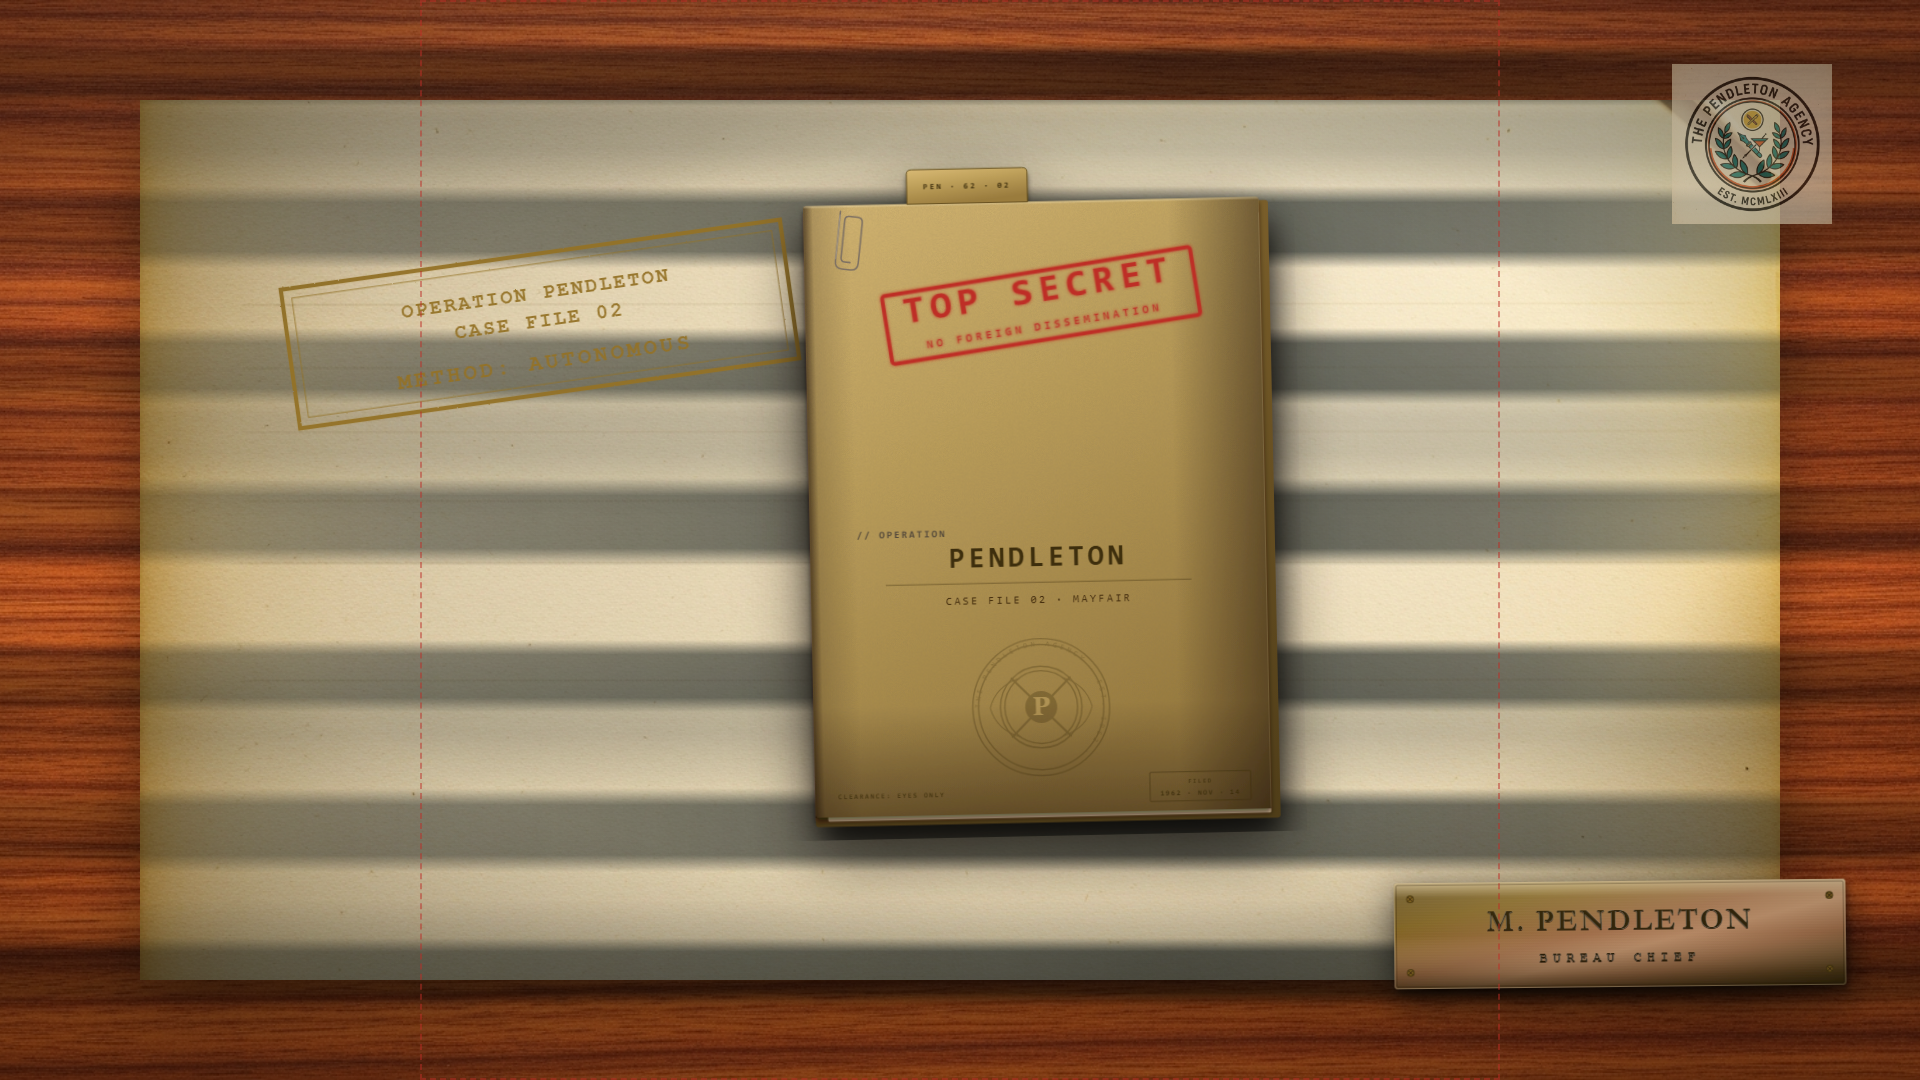
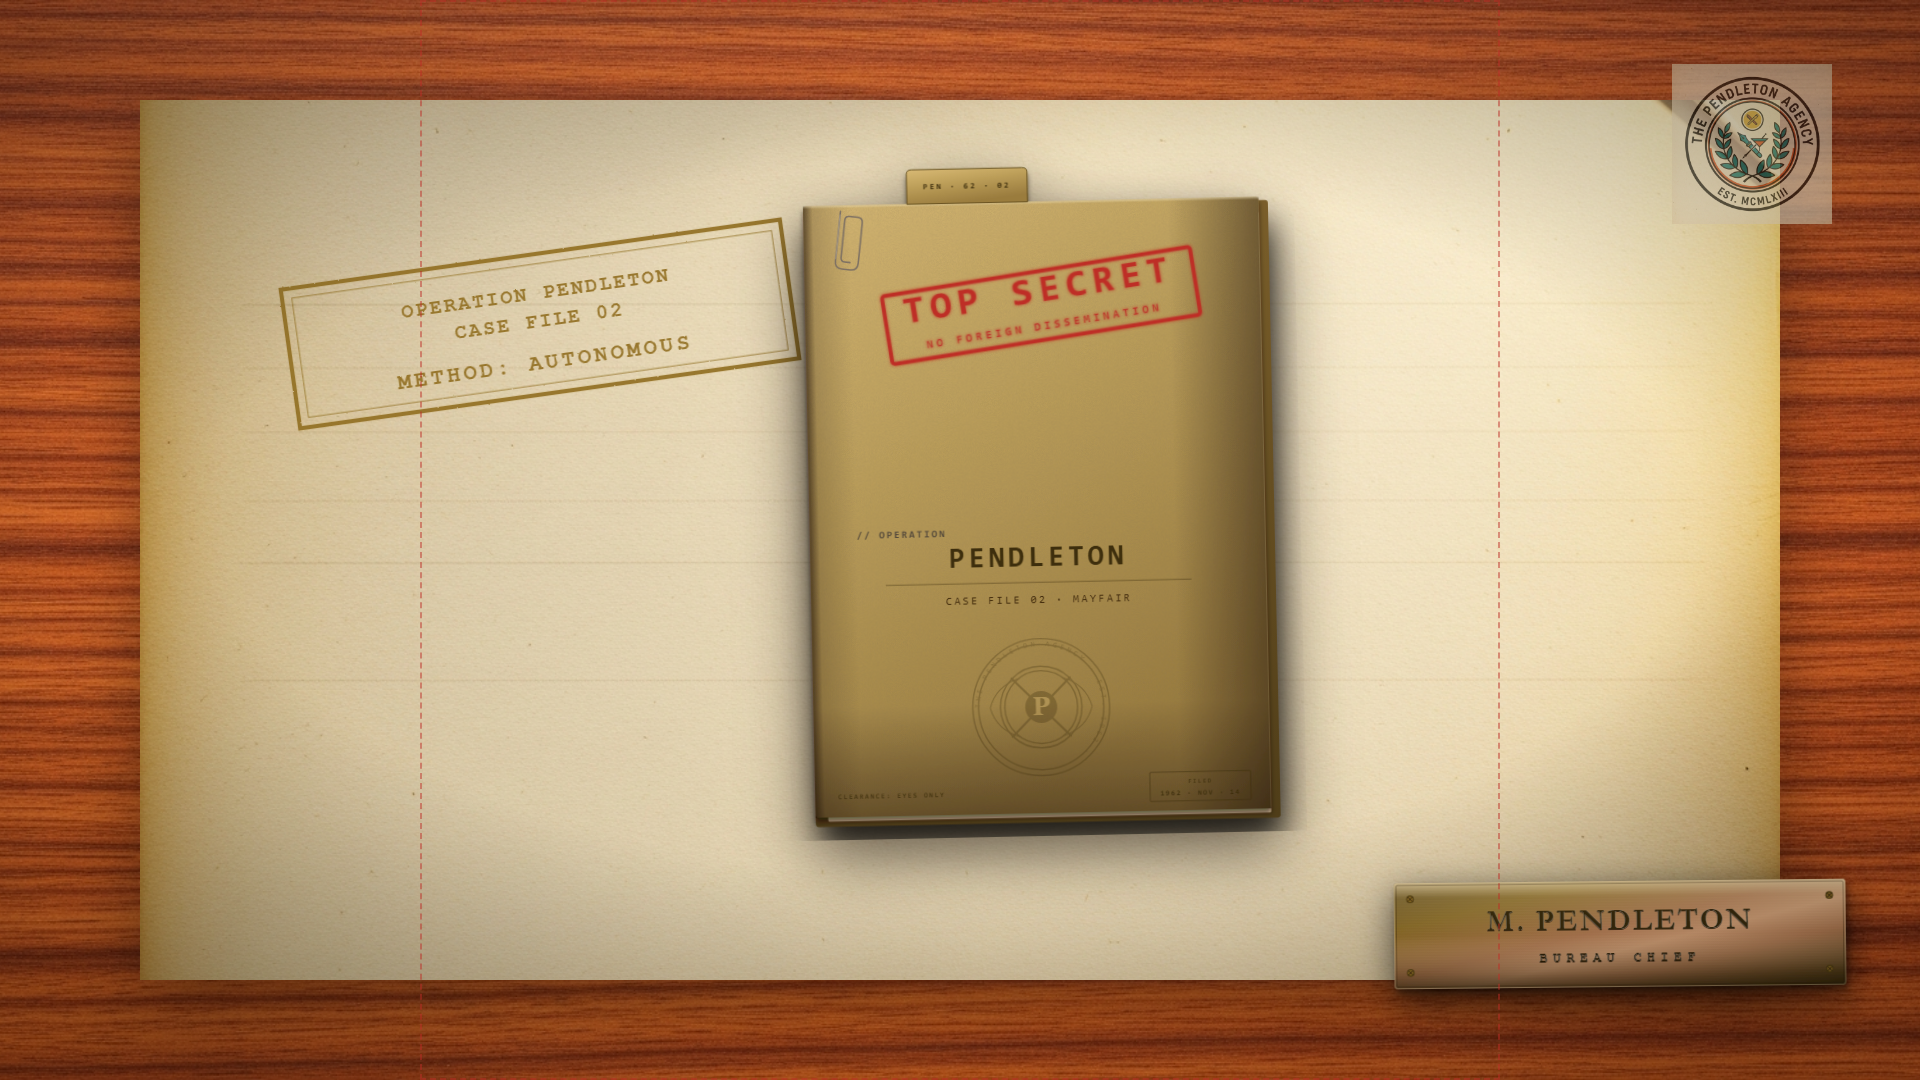
fix(burned-trailer): Phase 3 Unit 3.7 — Briggsy eyeball fixes (BURNED D-clip + S02 venetian blinds)
Two visible findings on the Unit 3.7 composites.

**BURNED logo D-clipping** (asset-level): viewBox widened from 1200×400
to 1600×400. The sans-serif fallback renders "BURNED" at 320px with
letter-spacing -8 wider than the original viewBox accommodated, so the
right edge of the D was clipping in Img-render mode. With 1600 viewBox
the wordmark breathes ~150px on each side at the widest fallback;
drop-shadow filter region still clears the new extents. Manifest
`width` updated 1200 → 1600 to match.

**S02 venetian blinds remove** (composite-level): multiply-blended
shadow over the cream blotter + dossier read as flat horizontal
stripes, not as "sun-through-blinds" set-dressing. Cut from the S02
cross-family composite. The SVG STAYS in the manifest — Phase 4 may
use it scoped differently (smaller area, lighter opacity, or only over
the dark mahogany margins outside the blotter region). Surface as a
Phase 4 decision in the composite source comment.

Per-family burned-logo composite wrap retuned 900×300 → 1000×250 to
match the new 4:1 viewBox aspect.

Drift gate clean (12/12). Typecheck clean.

diff --git a/projects/burned/videos/trailer/scripts/build-safe-square-composites.ts b/projects/burned/videos/trailer/scripts/build-safe-square-composites.ts
@@ -170,8 +170,8 @@ const COMPOSITES: ReadonlyArray<Composite> = [
     kind: 'per-family',
     name: 'per-family-title-burned-logo',
     assets: ['public/trailer/title-sequence/burned-logo.svg'],
-    width: 900,
-    height: 300,
+    width: 1000,
+    height: 250,
   },
 
   // ── Cross-family scenes (Step 4b) ──
@@ -179,10 +179,17 @@ const COMPOSITES: ReadonlyArray<Composite> = [
     kind: 'cross-family',
     name: 'cross-family-s02-frame-300',
     background: '#1a1812',
+    // Venetian-blinds INTENTIONALLY excluded from this composite per
+    // 2026-05-22 Briggsy review — multiply blend over the cream
+    // blotter + dossier read as flat horizontal stripes, not as
+    // "sun-through-blinds" set-dressing. The SVG stays in the
+    // manifest because Phase 4 may use it scoped differently (smaller
+    // area, lighter opacity, or only over the dark mahogany margins
+    // outside the blotter). Surface this as a Phase 4 decision in
+    // PHASE-3-EXIT.md.
     assets: [
       'public/assets/arena/mahogany-horizontal.png',
       'public/assets/arena/blotter.png',
-      'public/trailer/briefing-room/venetian-blinds.svg',
       'public/trailer/briefing-room/dossier-folder-closed.svg',
       'public/trailer/briefing-room/depth-plane.svg',
       'public/assets/howtoplay/pendleton-crest.png',
@@ -201,12 +208,6 @@ const COMPOSITES: ReadonlyArray<Composite> = [
            style="position:absolute;left:140px;top:100px;width:1640px;height:880px;
                   object-fit:cover;
                   filter:drop-shadow(0 24px 40px rgba(0,0,0,0.45));" />
-
-      <!-- Venetian-blind shadow mask, slightly heavier so the cohesion
-           question "are blinds + folder shadow + nameplate shadow all
-           pointing the same way?" is actually answerable. -->
-      <img src="${rel('public/trailer/briefing-room/venetian-blinds.svg')}"
-           style="position:absolute;inset:0;width:100%;height:100%;opacity:0.72;mix-blend-mode:multiply" />
 
       <!-- R15 #1 classification stamp ON the blotter, upper-left, -8° -->
       <div style="position:absolute;left:260px;top:240px;width:560px;height:168px;

diff --git a/projects/burned/videos/trailer/src/lib/visual-manifest.ts b/projects/burned/videos/trailer/src/lib/visual-manifest.ts
@@ -287,12 +287,13 @@ export const VISUAL_ASSETS: readonly VisualAsset[] = [
     staticPath: 'trailer/title-sequence/burned-logo.svg',
     safeSquareRole: 'safe-square',
     tier: 'hero',
-    width: 1200,
+    width: 1600,
     height: 400,
     notes:
       'S06 closing wordmark ONLY (frame 2780). S01 cold-open uses assets/cards/burned.webp ' +
       '(in-world card-art) per Phase 1 Unit 1.10 differential. Clash Display 700 320px, ' +
-      'burn-fire ink, letter-spacing -8.',
+      'burn-fire ink, letter-spacing -8. viewBox 1600×400 (widened from 1200 to clear ' +
+      'sans-serif fallback overflow on the D — 2026-05-22 eyeball fix).',
   },
 
   // ─── Title-sequence EXISTING (Path A via ADR #8) ─────────────
